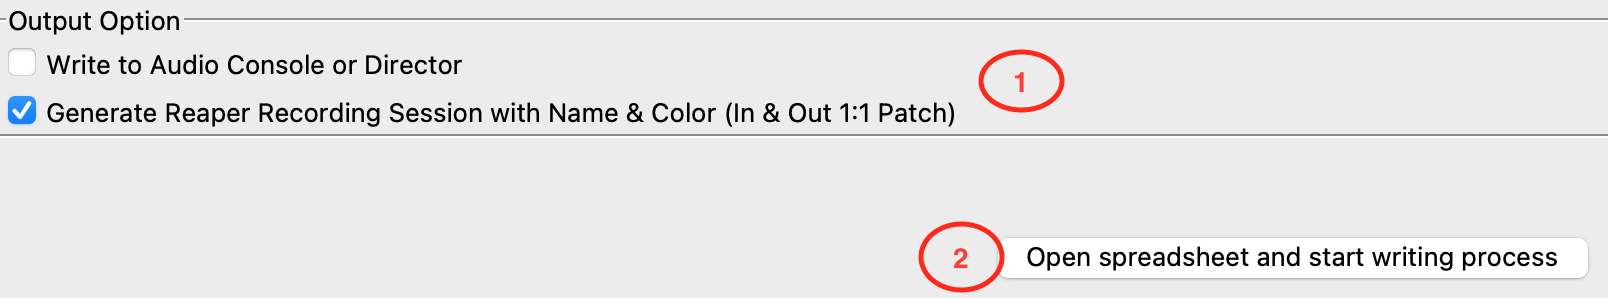
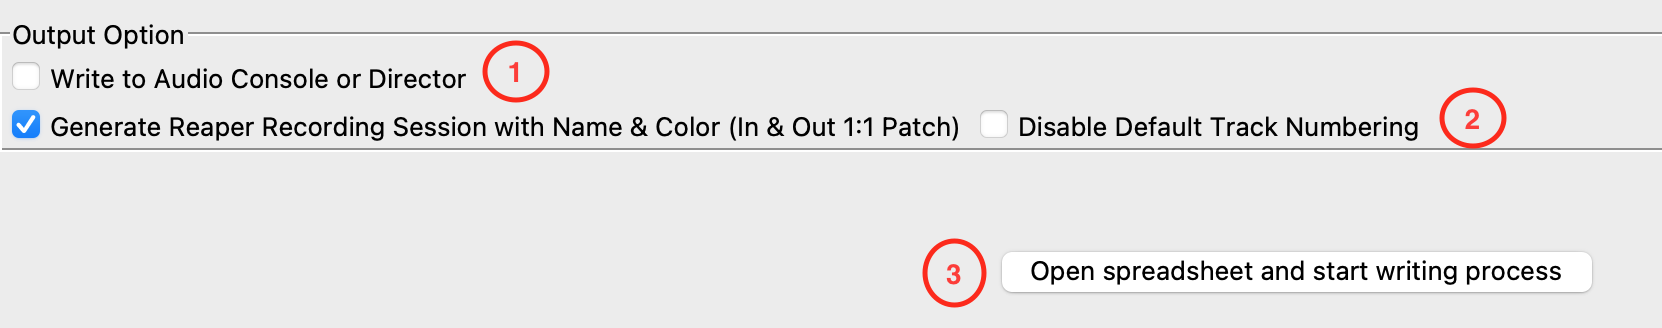
doc updated

Changed region(s): [[0.0, 0.151, 1.0, 0.4832], [0.0, 0.0302, 1.0, 0.302], [0.5286, 0.7248, 0.995, 0.9966]]

diff --git a/README.md b/README.md
@@ -150,7 +150,7 @@ Prerequisites:
 
     4.2 Create a onefile binary (works for Windows and MacOS)
 
-    `pyinstaller.exe --onefile -w Main.py`
+    `pyinstaller -y --onefile -w ./src/Main.py`
 
 
 Afterwards the following window appears. 
@@ -177,7 +177,10 @@ Afterwards the following window appears.
 
 8. If you also want to create a Reaper template session, set the corresponding tick. The Reaper session file `<input-spread-sheet-file>-recording-template.rpp` 
    will be generated into the directory from where the spreadsheet has been chosen. In the `Channels` Tab, you can configure, which channel shall be recorded, and "record armed". The patching is 1:1 (derived from the channel number) <br><br>
-   You can also use the tool to create only the Reaper session file, in case you use a different audio console. In this case use the following settings (1) and continue with Step 9 (2).
+   You can also use the tool to create only the Reaper session file, in case you use a different audio console. In this case use the following settings (1+2) and continue with Step 9 (3).<br><br>
+   
+   The default track numbering can also be disabled.
+   
 
 <img alt="onlyreapter" src="doc/reaper_only.png" width="500"/>
 
@@ -200,6 +203,7 @@ Feature & Maintenance Release
 #### New Features
 - "Don´t care" feature for sockets sheet added
 - "Don´t care" feature for channels sheet added
+- Possibility to disable default track numbering 
 
 #### Improvements
 - Gain value mapping improved - gain values are now more accurate.
